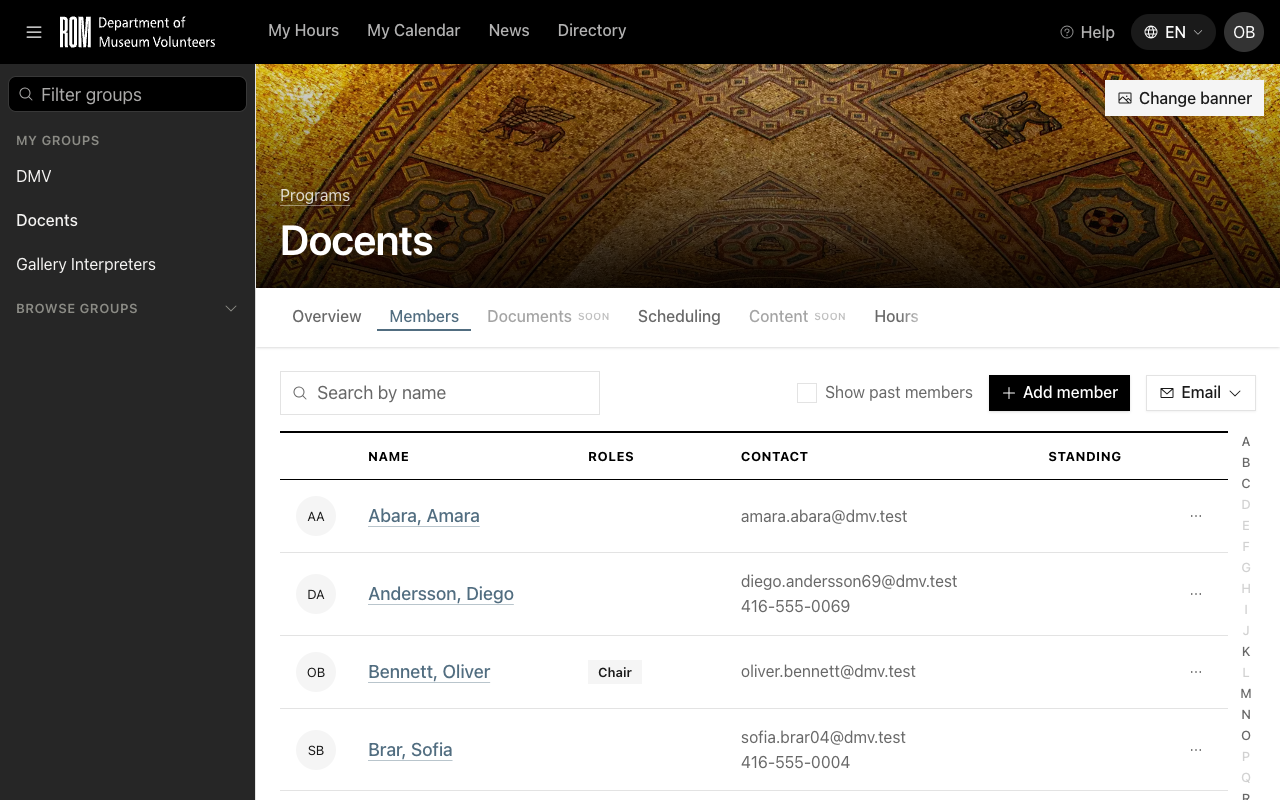
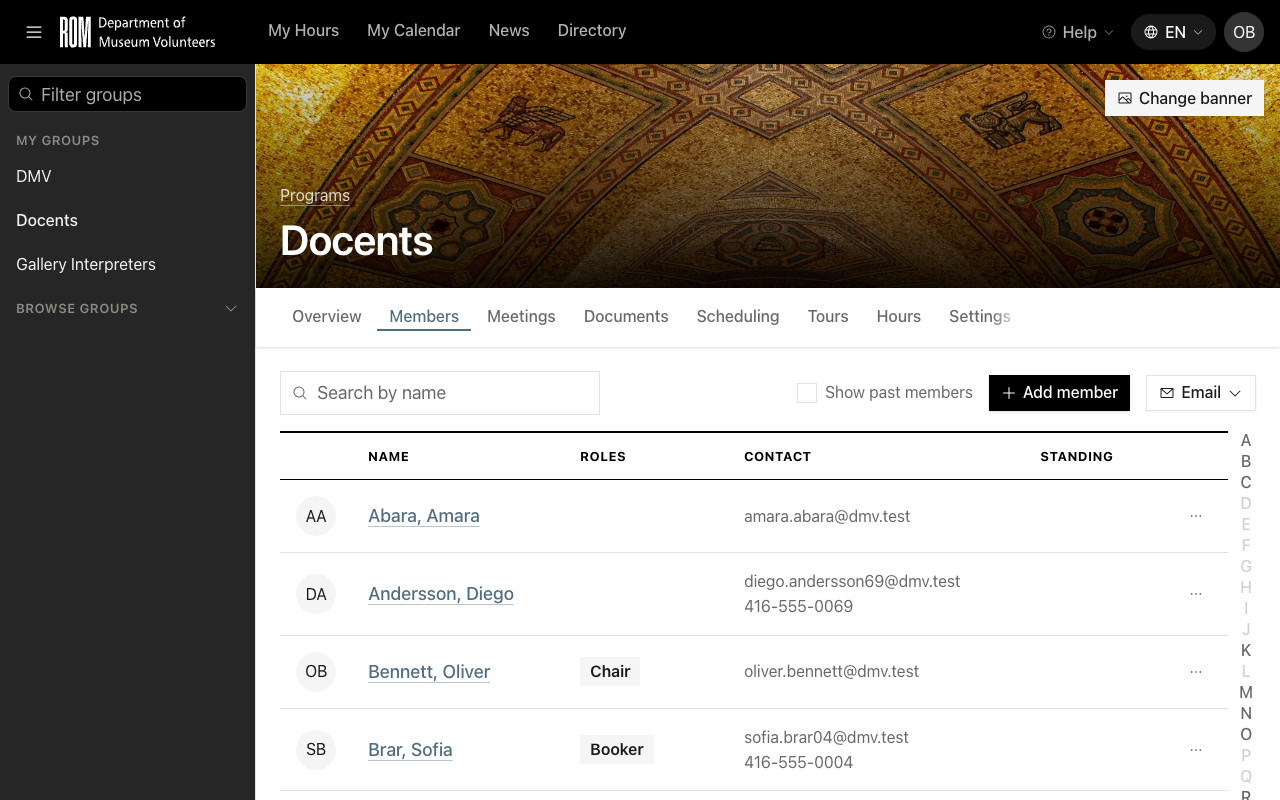
Help: reshoot the roster article screenshots (#873)

diff --git a/resources/help/fr/manage-your-groups-roster.md b/resources/help/fr/manage-your-groups-roster.md
@@ -29,7 +29,7 @@ Pour retirer un·e membre de votre sélection, sélectionnez le **×** à côté
 
 1. Ouvrez le menu à trois points au bout de la ligne du·de la membre.
 
-    ![Le menu d'une ligne : Gérer, Faire démissionner et Retirer (ajouté par erreur)](03.png)
+    ![Le menu d'une ligne : Gérer, Faire démissionner, Visites et Retirer (ajouté par erreur)](03.png)
 
 2. Sélectionnez **Gérer**.
 

diff --git a/resources/help/en/manage-your-groups-roster.md b/resources/help/en/manage-your-groups-roster.md
@@ -29,7 +29,7 @@ To remove a Member from your selection, select the **×** next to their name abo
 
 1. Open the three-dot menu at the end of the Member's row.
 
-    ![A row's menu: Manage, Resign member, and Remove (added in error)](03.png)
+    ![A row's menu: Manage, Resign member, Tours, and Remove (added in error)](03.png)
 
 2. Select **Manage**.
 
